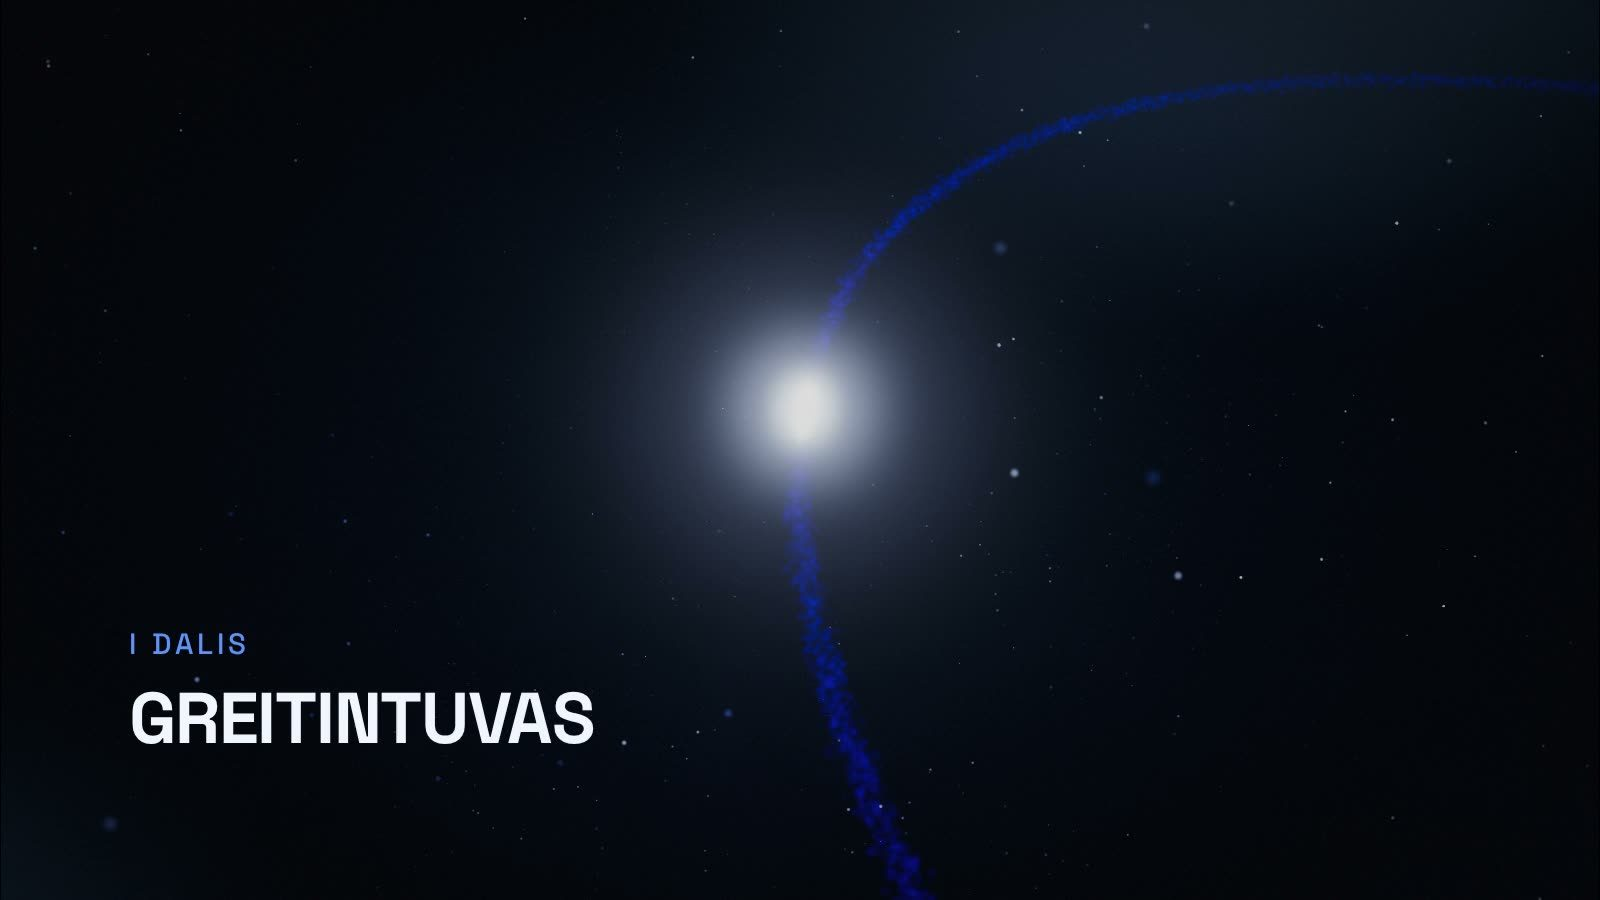
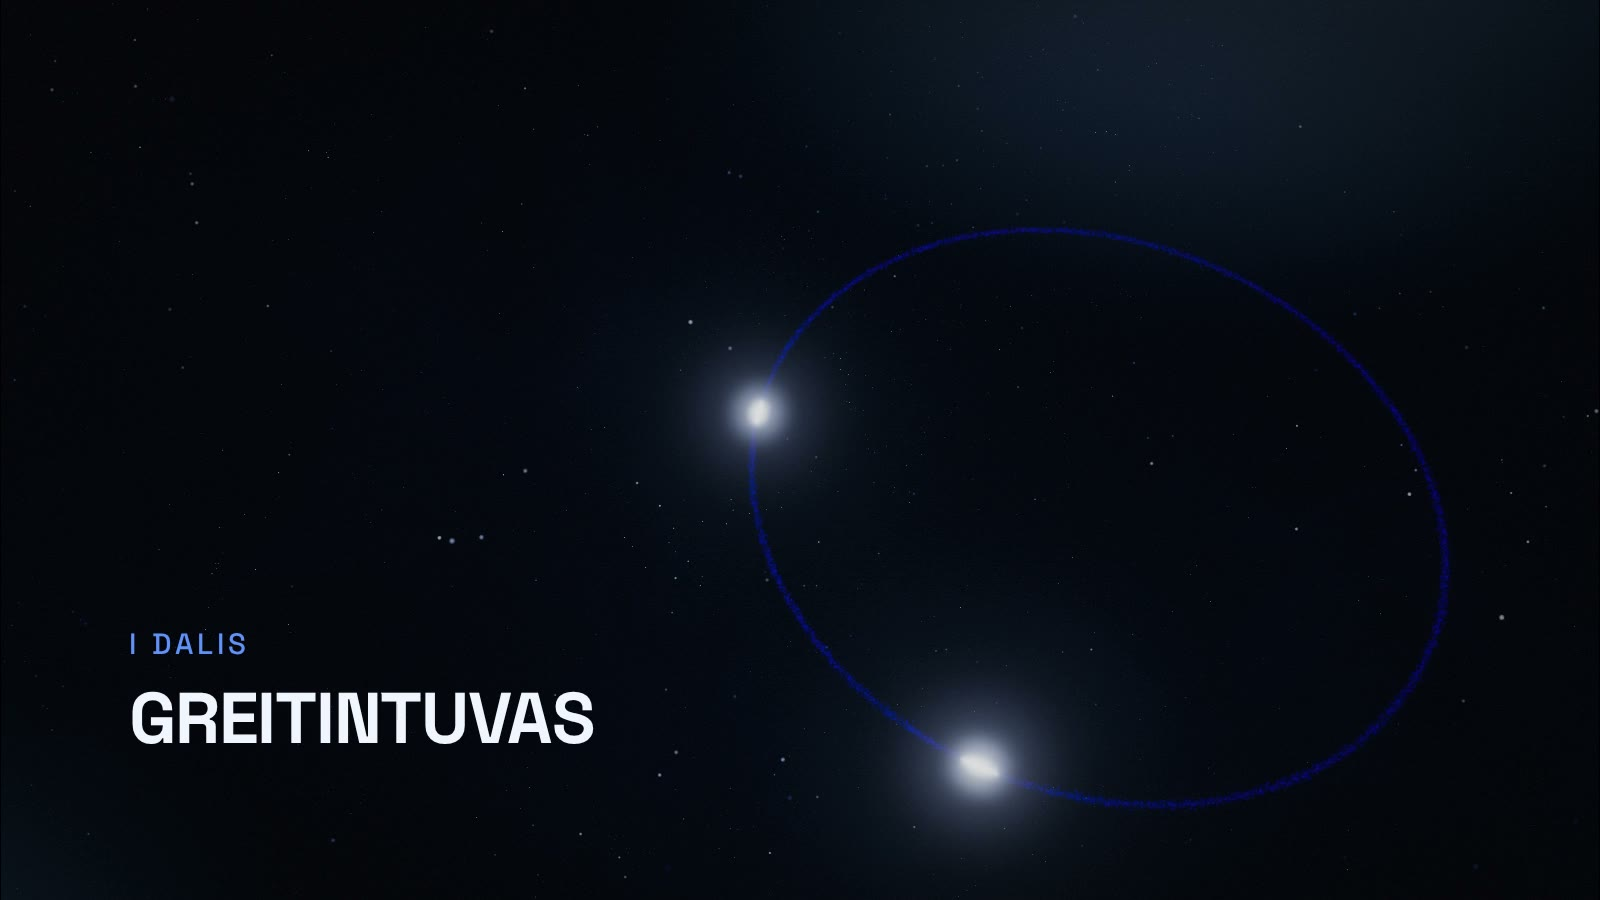
feat(innoday): v0.5.2 — Part II's places as a group, Part I's wide poses back, the hum everywhere
Pinned slidev-videos v0.5.2. The eight Part II photo places are
group="inventions": shown from section II, hidden again from section III, so
the prologue, Part I and Part III no longer see them. Part I's poses no longer
dodge them: section I sees the ring from above in the right half, clear of the
title; 4 TB/s and the tunnel look along the ring at pitch 22 again.
humAt: all. Stills 07, 10, 12 from settled last frames.

Claude-Session: https://claude.ai/code/session_01UQ1VwcvdvqFoSGjGgE4EUj

diff --git a/talks/2026_10_00_Innoday/CLAUDE.md b/talks/2026_10_00_Innoday/CLAUDE.md
@@ -71,23 +71,16 @@ the part word during a Part II flight, gone before the photo lands).
   (talk-owned bookend, 0:30, made by reversing the opener; do not `--prune`
   `vu_ff_zoom.mp4`, its source), library `cern_overview_short.mp4`,
   `cern_footage_2022_042_001.mp4`.
-- Toolkit: slidev-videos v0.5.1 (both addons).
+- Toolkit: slidev-videos v0.5.2 (both addons): place groups, `humAt: all`.
 
 ## Status
 
-2026-10-09: **complete, pending the owner's review.** The live deploy (fe15a19)
-404s on the print stills and the Part II place photos under the Pages base;
-fixed on the branch (base-relative paths, `pnpm pages:check` clean), to go out
-with the next deploy (after the v0.5.2 pin and the owner's go). Deployed fe15a19 —
-https://mindaugassarpis.github.io/cern_outreach_talks/2026_10_00_Innoday/ —
-Pages run 37906723499 (per-talk build and deploy green), URL 200; `talk
-ready` passed with nothing skipped. This round: the funnel rebuilt to the
-owner's NASA/WMAP reference (a bell on its side, crisp wireframe, Big Bang
-flare, WMAP-coloured CMB disk, blue-violet haze and colourful galaxies, floor
-grid; the flight down to the CMB), the Scheduler's 33-point Lithuanian text
-audit, captions timed from the slide's arrival (<AfterFlight>), print stills
-refreshed. Next: the owner's review; v0.5.2 place groups (then widen Part I's
-poses again); `humAt: all`.
+2026-10-09: **complete, pending the owner's review.** On the branch, not yet
+deployed: the Pages-base fix (stills and place photos 404'd under the live
+deploy fe15a19; `pnpm pages:check` now clean) and the v0.5.2 round (place
+groups, Part I's wide poses back, `humAt: all`, stills 07/10/12). Last
+deploy fe15a19 — https://mindaugassarpis.github.io/cern_outreach_talks/2026_10_00_Innoday/
+— Pages run 37906723499. Next: `talk ready`, deploy, the owner's review.
 
 ## Decisions
 
@@ -110,11 +103,12 @@ Dated detail in `HANDOFF.md`. The ones a later session must not undo:
   when the camera looks down the axis, and the disk dims with the viewing angle
   so overlapping grains keep their colours.
 - Match cuts: only ring → tunnel; ring → CERN aerial and loop → FCC were weak.
-- Part II's photo places are built when their slides mount (all of them 3 s
-  after load) and stay in the world. Until the toolkit can hide them, Part I's
-  poses keep them out of frame: section I and the 4 TB/s/tunnel slides look
-  down along the ring at pitch 40 from just above it, so the photos (y 2.5,
-  4–6 outside the ring) stay above the top edge.
+- Part II's photo places are one group, `group="inventions"`: section II
+  says `places: { inventions: true }`, section III `false`, so they are hidden
+  in the prologue, Part I and Part III (v0.5.2). Part I keeps its wide poses:
+  section I sees the ring from above in the right half, clear of the title (target [8.8, 0, −3], dist 20, pitch 55), 4 TB/s and the tunnel
+  look along the ring at pitch 22. (On v0.5.1 those poses had to look down at
+  pitch 40 to keep the photos above the frame.)
 - Data → White Rabbit (2012, Frankfurt exchange), the thing that left CERN;
   the grid figures are in the notes. The photo's credit („© CERN (KT
   ataskaita, 2024)“) is taken from the KT report page; the photographer is
@@ -139,12 +133,6 @@ Dated detail in `HANDOFF.md`. The ones a later session must not undo:
 
 - The MARS wrist image is © MARS Bioimaging (CERN KT hosts it); ask MARS
   before any non-educational use.
-- Part II's photo places: a visibility control is asked of Tools (8 Oct);
-  the Part I poses avoid them meanwhile (see Decisions).
-- The hum drops on the open-space prologue poses (takeover, CMB, question):
-  `humAt: all` asked of Tools (9 Oct).
-- `ktbest-alumni` in research/facts.jsonl still says "into industry"; the
-  deck does not cite it (reported to the Scheduler).
 - On the venue laptop, read the stage's frame-rate guard at the close
   (`document.querySelector('.stage canvas').__space.guardStage`); above 0
   means a slide was too heavy.

diff --git a/talks/2026_10_00_Innoday/HANDOFF.md b/talks/2026_10_00_Innoday/HANDOFF.md
@@ -266,3 +266,15 @@ clean; with one photo put back to `/figures/` it reports
 `404 /figures/hero_stumpe.jpg`. `stage:check` now passes `--types
 strands,funnel` itself. Not deployed: waits for the v0.5.2 pin (place groups,
 `humAt`) and the owner's go.
+
+## v0.5.2 round (2026-10-09)
+
+Pinned v0.5.2. Part II's eight places are `group="inventions"`: shown from
+section II (`places: { inventions: true }`), hidden again from section III.
+Part I's wide poses are back: section I sees the ring from above, now in the
+right half clear of the title (target [8.8, 0, −3], dist 20, pitch 55; the
+old [16, 0, 0] dist 24 put a bunch on the title), 4 TB/s and the tunnel look
+along the ring at pitch 22. `humAt: all`. Recorded on gluon (g1a–c, st7b,
+st10 in ~/talks/.cache/innoday): no place in Part I or III frames, the places
+fade in during the flight to section II. Stills 07, 10, 12 refreshed from the
+settled last frames. `pages:check` clean on v0.5.2.
